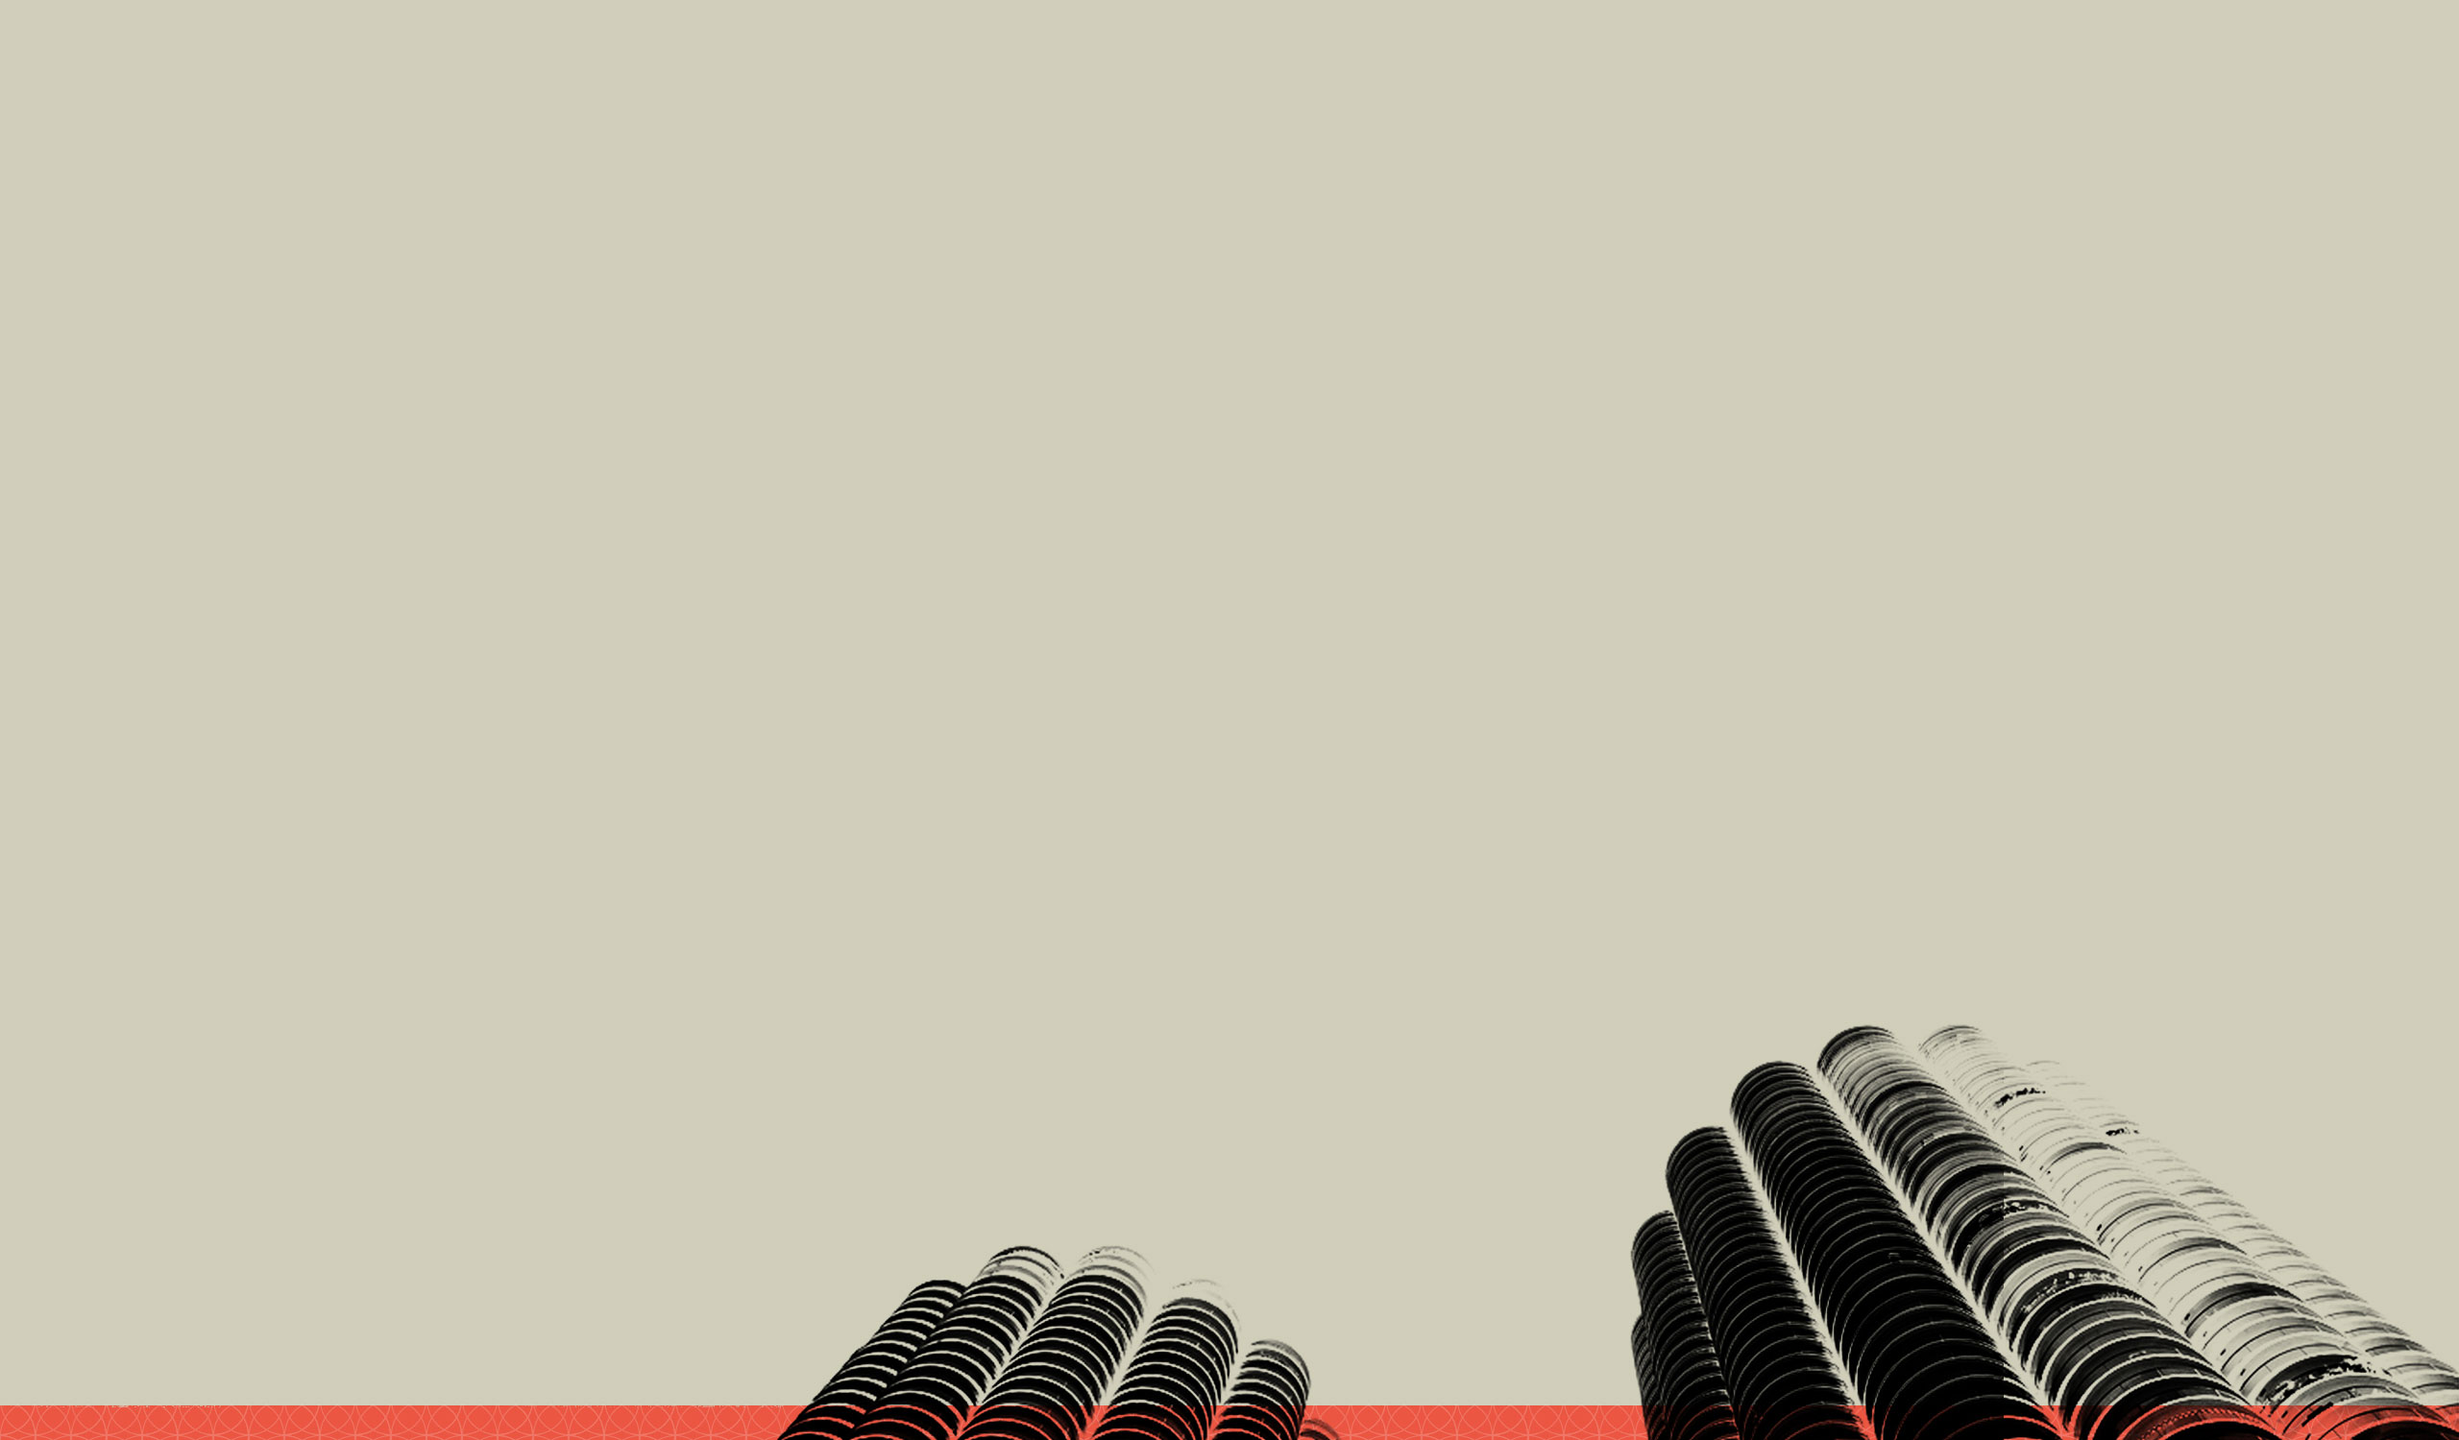
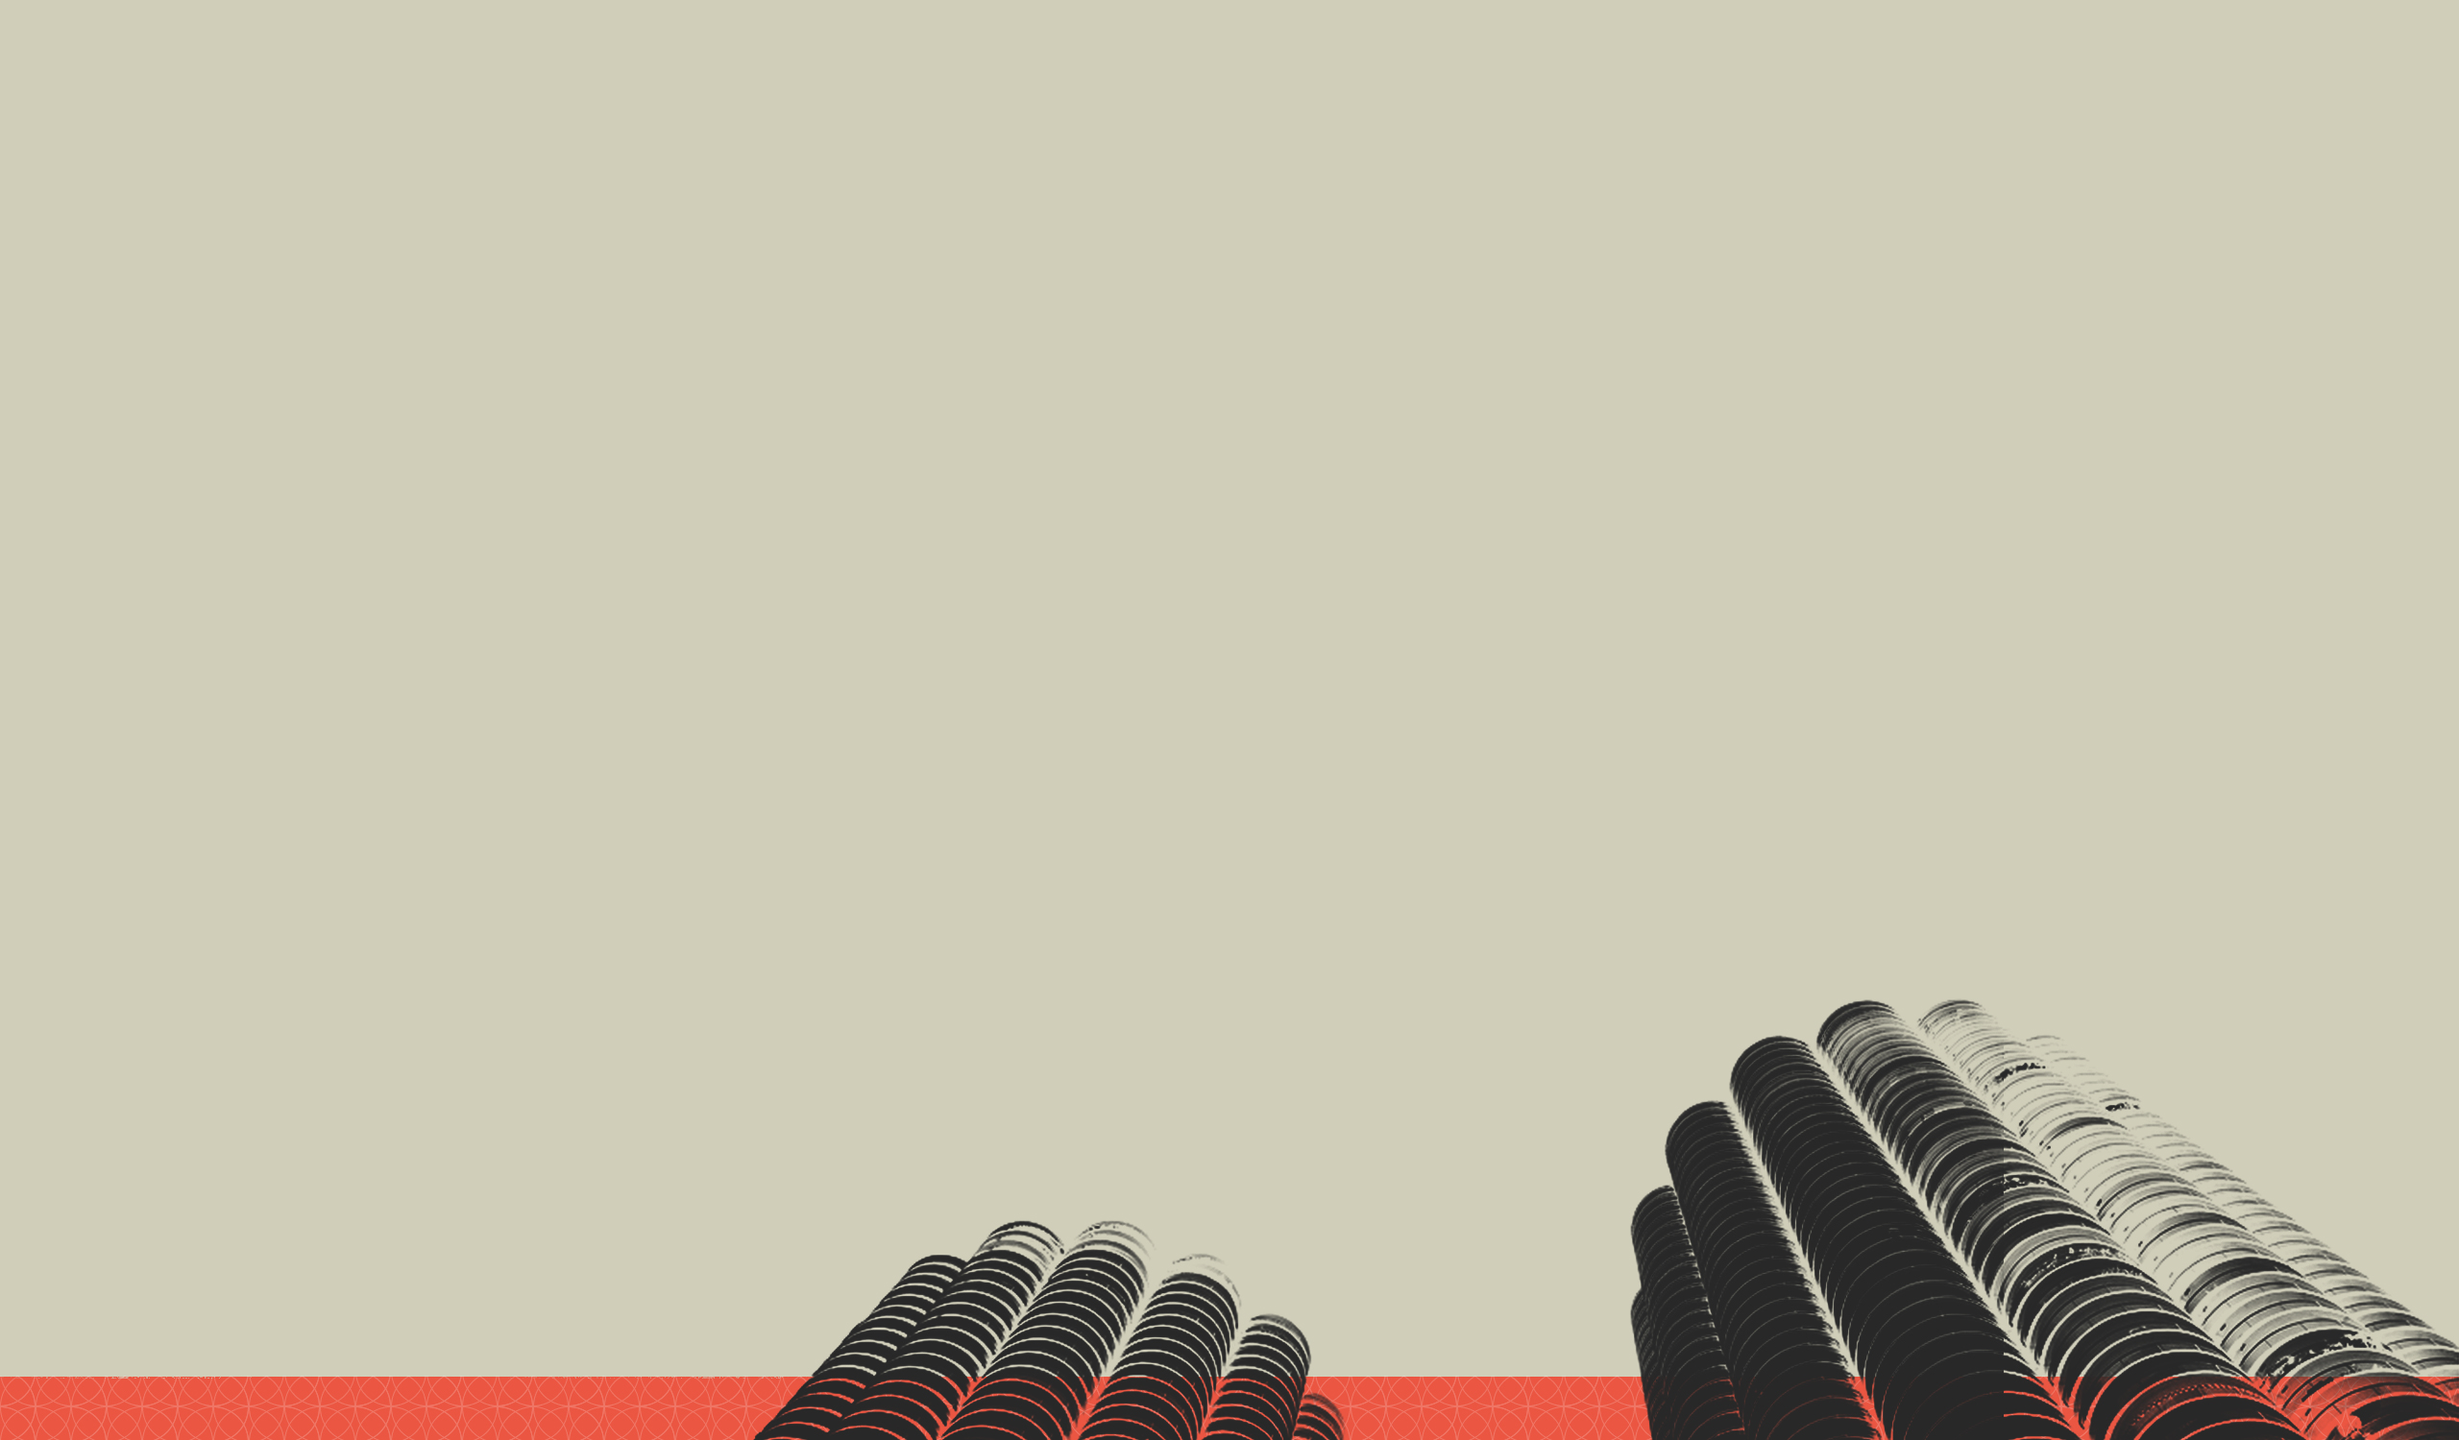
Sunday Updates, Minor Color Changes

Changed region(s): [[0.0, 0.6747, 1.0, 1.0]]

diff --git a/content/global.css b/content/global.css
@@ -178,7 +178,7 @@ a {
   user-select: none;
 }
 body {
-  background: #170906;
+  background: #282828;
 }
 body.menu-padding {
   padding-top: 100px;
@@ -328,7 +328,6 @@ header {
   display: block;
   transition: all .2s ease;
   width: 100%;
-  border-bottom: 1px solid rgba(255, 255, 255, 0.2);
   position: fixed;
   z-index: 9999;
 }
@@ -337,9 +336,6 @@ header #branding {
   position: relative;
   color: black;
   transition: all .2s ease;
-  width: 200px;
-  height: 40px;
-  background: url(../content/images/logo-white.svg);
   background-size: 200px 40px;
   margin-left: 50px;
   text-indent: -9999px;
@@ -347,6 +343,21 @@ header #branding {
 header #branding a {
   display: block;
   height: 100%;
+  height: 40px;
+  width: 200px;
+  background: url('../content/images/logo-white.svg');
+  background-size: 200px 40px;
+  transition: all .2s ease;
+}
+header #branding object {
+  height: 40px;
+  width: 200px;
+  color: #d0ceb9;
+  display: block;
+  transition: all .2s ease;
+}
+header #branding object path {
+  fill: white;
 }
 header #topnav ul {
   float: right;
@@ -370,6 +381,7 @@ header #topnav ul li a {
   color: white;
   font-weight: 400;
   font-size: 18px;
+  transition: all .2s ease;
 }
 header #topnav ul li a:hover {
   border-bottom: 1px solid white;
@@ -378,13 +390,12 @@ header #topnav ul li a:hover {
   position: fixed;
   top: 0;
   padding: 20px 0px;
-  background: rgba(23, 9, 6, 0.8);
+  background: rgba(40, 40, 40, 0.9);
 }
-.scroll #branding {
+.scroll #branding a {
   color: #d0ceb9;
   width: 100px;
   height: 20px;
-  background: url(../content/images/logo-white.svg);
   background-size: 100px 20px;
 }
 .scroll ul {
@@ -392,10 +403,11 @@ header #topnav ul li a:hover {
 }
 .scroll ul li a {
   font-size: 16px !important;
-  color: #d0ceb9 !important;
+  color: white !important;
 }
 .scroll ul li a:hover {
   color: #eb5642 !important;
+  border-bottom: none !important;
 }
 .page-wrapper {
   position: absolute;
@@ -422,9 +434,9 @@ header #topnav ul li a:hover {
   padding: 0px 0px 100px;
 }
 #hero .headline h1 {
-  color: #170906;
+  color: #282828;
   font-family: "abril-display-1", "abril-display-2";
-  font-size: 83px;
+  font-size: 94px;
   font-weight: 800;
   margin-bottom: 20px;
   font-style: italic;
@@ -435,11 +447,13 @@ header #topnav ul li a:hover {
 }
 #hero .headline h2 {
   width: 50%;
+  color: #282828;
   margin: 10px 0 0 150px;
   text-transform: uppercase;
   font-style: italic;
   font-size: 12px;
   line-height: 23px;
+  letter-spacing: 1px;
 }
 #worklist {
   margin-bottom: 40px;
@@ -472,7 +486,7 @@ header #topnav ul li a:hover {
   content: '';
   width: 200px;
   height: 1px;
-  border-bottom: 1px solid #373630;
+  border-bottom: 1px solid #464646;
   display: block;
   margin: 10px auto -5px;
 }
@@ -542,7 +556,7 @@ header #topnav ul li a:hover {
   padding-top: 60px;
 }
 #worklist ul.portfolio li .project-data {
-  border-bottom: 1px solid #373630;
+  border-bottom: 1px solid #464646;
   transition: all .2s ease;
 }
 #worklist ul.portfolio li .project-data h3 {
@@ -570,7 +584,7 @@ header #topnav ul li a:hover {
 -------------------------------------------------- */
 footer {
   width: 100%;
-  border-top: 1px solid #373630;
+  border-top: 1px solid #464646;
   height: 100px;
   clear: both;
   margin-top: 40px;
@@ -582,7 +596,7 @@ footer .contact {
   color: #d0ceb9;
   font-size: 28px;
   margin: 30px 0 60px;
-  border-bottom: 1px solid #373630;
+  border-bottom: 1px solid #464646;
   padding-bottom: 30px;
   font-family: "abril-display-1", "abril-display-2";
 }
@@ -672,15 +686,15 @@ footer .mini-colophon {
   display: block;
   margin: 10px auto 50px;
   width: 62%;
-  border: 1px solid #373630;
+  border: 1px solid #464646;
   font-family: "proxima-nova-1", "proxima-nova-2";
-  color: #373630;
+  color: #464646;
 }
 footer .mini-colophon span {
   padding: 15px 15px 13px;
   display: inline-block;
   text-align: center;
-  border-right: 1px solid #373630;
+  border-right: 1px solid #464646;
   margin-top: -2px;
 }
 footer .mini-colophon .flag {
@@ -740,7 +754,6 @@ footer .mini-colophon .flag {
   color: #d0ceb9;
 }
 #about p a {
-  border-bottom: 1px solid #eb5642;
   color: #eb5642;
 }
 #about h3 {
@@ -767,6 +780,7 @@ footer .mini-colophon .flag {
 }
 #about .fifty p {
   margin: 0 0 12px;
+  font-family: "abril-display-1", "abril-display-2";
 }
 #about .fifty h2 {
   color: #d0ceb9;
@@ -780,7 +794,7 @@ footer .mini-colophon .flag {
 #about .fifty img {
   width: 98%;
   margin-bottom: 20px;
-  border: 8px solid #373630;
+  border: 8px solid #464646;
 }
 #about .twentyfive {
   font-size: 12px;
@@ -850,9 +864,10 @@ footer .mini-colophon .flag {
 #about .twentyfive p {
   clear: both;
   font-size: 12px;
-  line-height: 18px;
+  line-height: 19px;
   padding-top: 5px;
   display: block;
+  font-family: "abril-display-1", "abril-display-2";
 }
 #about .twentyfive .personallist li.education {
   font-size: 12px;
@@ -873,7 +888,6 @@ footer .mini-colophon .flag {
   text-transform: uppercase;
 }
 #about .twentyfive .personallist li a {
-  border-bottom: 1px solid #eb5642;
   color: #eb5642;
 }
 #about .twentyfive .personallist li.social i {
@@ -892,9 +906,8 @@ footer .mini-colophon .flag {
 -------------------------------------------------- */
 #contact-header {
   text-align: center;
-  padding-top: 71px;
+  padding-top: 275px;
   background: url('images/contact_bg.jpg');
-  background-position: 0px -433px;
   background-size: cover;
   padding-bottom: 50px;
   background-position: center bottom;
@@ -1006,7 +1019,7 @@ footer .mini-colophon .flag {
 }
 #contact .form input {
   background: none;
-  border: 3px double #373630;
+  border: 3px double #464646;
   padding: 20px;
   width: 60%;
   color: white;
@@ -1018,7 +1031,7 @@ footer .mini-colophon .flag {
 }
 #contact .form textarea {
   background: none;
-  border: 3px double #373630;
+  border: 3px double #464646;
   padding: 20px;
   width: 60%;
   color: white;
@@ -1059,7 +1072,7 @@ footer .mini-colophon .flag {
   font-style: italic;
   letter-spacing: -1px;
   line-height: 80px;
-  border-bottom: 3px double #373630;
+  border-bottom: 3px double #464646;
 }
 #project-header p {
   color: #d0ceb9;
@@ -1084,7 +1097,7 @@ footer .mini-colophon .flag {
 #project-header .meta {
   width: 250px;
   float: right;
-  border: 1px solid #373630;
+  border: 1px solid #464646;
   margin-right: 0px;
   margin-bottom: 40px;
   margin-top: -102px;
@@ -1099,14 +1112,14 @@ img#project-header .meta {
   text-transform: uppercase;
   font-size: 16px;
   padding: 20px;
-  border-bottom: 3px double #373630;
+  border-bottom: 3px double #464646;
 }
 #project-header .meta .group {
   color: #d0ceb9;
   font-family: "abril-display-1", "abril-display-2";
   font-style: italic;
   padding: 10px 20px 10px;
-  border-bottom: 1px solid #373630;
+  border-bottom: 1px solid #464646;
 }
 #project-header .meta .group .label {
   color: #eb5642;

diff --git a/content/global.less b/content/global.less
@@ -29,14 +29,14 @@ p {font-size: 14px; line-height: 22px; }
 /*  --------------------------------------------------
 :: Base	
 -------------------------------------------------- */
-@black: #170906;
+@black: #282828;
 @white: #d0ceb9;
 @yellow: #ffd133;
 @red: #eb5642;
 @blue: #63adde;
 @orange: #fe9400;
-@lighter: #373630;
-@background: #170906;
+@lighter: #464646;
+@background: #282828;
 @accent: #fce016;
 
 .clearfix{ 
@@ -114,27 +114,32 @@ p {font-size: 14px; line-height: 22px; }
 :: Header
 -------------------------------------------------- */
 
-header {padding:40px 0px; display: block; transition:all .2s ease; width:100%; border-bottom: 1px solid rgba(255,255,255,.2); position:fixed; z-index: 9999;
-		#branding {.left; position: relative; color:black; transition:all .2s ease; width:200px; height:40px; background: url(../content/images/logo-white.svg); background-size: 200px 40px;  margin-left:50px; text-indent: -9999px;
-			a {display: block; height:100%;}
+header {padding:40px 0px; display: block; transition:all .2s ease; width:100%; position:fixed; z-index: 9999;
+		#branding {.left; position: relative; color:black; transition:all .2s ease;  background-size: 200px 40px;  margin-left:50px; text-indent: -9999px;
+			a {display: block; height:100%; height:40px; width:200px; background:url('../content/images/logo-white.svg'); background-size: 200px 40px; transition:all .2s ease;}
+			object {height:40px; width:200px; color:@white; display:block; transition:all .2s ease;
+				path {fill:white;}
+			}
 		}
 		#topnav { 
 			ul {.right; padding-top:10px; margin-right:50px; .din;
 				li { display: inline; margin:0 10px;
 					&:last-child {margin-right:0px;}
-					a {color:white; .regular; font-size: 18px; 
+					a {color:white; .regular; font-size: 18px;  transition:all .2s ease;
 						&:hover {border-bottom:1px solid white;}
 					}
 				}
 			}
 		}
 	}
-	&.scroll {position: fixed; top:0; padding: 20px 0px; background: rgba(23,9,6,.8);
-		#branding {color: @white; width:100px; height:20px; background: url(../content/images/logo-white.svg); background-size: 100px 20px;}
+	&.scroll {position: fixed; top:0; padding: 20px 0px; background:rgba(40,40,40,.9);
+		#branding {
+			a {color: @white; width:100px; height:20px; background-size: 100px 20px;}
+		}
 		ul { padding-top:0px !important;
 			li {
-				a {font-size: 16px !important; color:@white !important;
-					&:hover {color:@red !important}
+				a {font-size: 16px !important; color:white !important;
+					&:hover {color:@red !important; border-bottom:none !important;}
 				}
 				
 			}
@@ -150,8 +155,8 @@ header {padding:40px 0px; display: block; transition:all .2s ease; width:100%; b
 
 #hero { .textcenter;  border-bottom:rgba(255,255,255,.2); background:url(../content/images/hero_bg.jpg); background-size: cover; padding:165px 0 75px; background-position: center bottom;
 	.headline { padding:0px 0px 100px;
-		h1 {color:@black; .abril; font-size:83px; font-weight:800; margin-bottom:20px; font-style: italic; text-transform: lowercase; letter-spacing: -1px; line-height:83px; text-align: left;}
-		h2 {width:50%; margin:10px 0 0 150px; text-transform:uppercase; font-style:italic; font-size: 12px; line-height: 23px;}
+		h1 {color:@black; .abril; font-size:94px; font-weight:800; margin-bottom:20px; font-style: italic; text-transform: lowercase; letter-spacing: -1px; line-height:83px; text-align: left;}
+		h2 {width:50%; color:@black; margin:10px 0 0 150px; text-transform:uppercase; font-style:italic; font-size: 12px; line-height: 23px; letter-spacing: 1px;}
 	}
 }
 #worklist { margin-bottom: 40px;
@@ -254,14 +259,14 @@ footer {width:100%; border-top:1px solid @lighter; height:100px; clear:both; mar
 		&:hover {color:#00aced !important; border-bottom: 1px solid #00aced !important;}
 	}
 	p {color:@white;
-		a {border-bottom: 1px solid @red; color: @red;
+		a { color: @red;
 		}
 	}
 	h3 {color:@white; .din; font-size:15px; color:@white; font-weight:800; margin-bottom:10px; margin-top: 40px; text-transform: uppercase;
 		&:after{content:''; width:100px; height:1px; border-bottom: 1px solid #333; display: block; margin: 10px 0 10px 0px;}
 	}
 	.fifty {margin-right:4%; width:45%;
-		p {margin: 0 0 12px;}
+		p {margin: 0 0 12px; .abril;}
 		h2 {color:@white; .din; font-size:24px; margin-bottom:20px; line-height: 27px;}
 		img {width:98%; margin-bottom: 20px; border: 8px solid @lighter;}
 	}
@@ -278,14 +283,14 @@ footer {width:100%; border-top:1px solid @lighter; height:100px; clear:both; mar
 			&.local {color:#666; font-family: "proxima-nova-1", "proxima-nova-2"; float: left;}
 			&.date {color:#666; font-family: "proxima-nova-1", "proxima-nova-2"; float: left; margin-left: 20px;}
 		}
-		p {clear:both; font-size: 12px; line-height: 18px; padding-top: 5px; display: block;}
+		p {clear:both; font-size: 12px; line-height: 19px; padding-top: 5px; display: block; .abril;}
 		.personallist {
 			li {
 				&.education { font-size: 12px; line-height: 16px;
 					.name {font-family: "proxima-nova-1", "proxima-nova-2"; font-weight: 700;}
 				}
 				.label {color:@red; .din; font-size:13px; font-weight:800; margin-bottom:7px; margin-top: 15px; text-transform: uppercase; }
-				a {border-bottom: 1px solid @red; color: @red;}
+				a { color: @red;}
 				&.social {
 					i {font-size:14px; transition:all .2s ease;
 						&:hover {color:@orange !important;}
@@ -302,7 +307,7 @@ footer {width:100%; border-top:1px solid @lighter; height:100px; clear:both; mar
 :: Contact
 -------------------------------------------------- */
 
-#contact-header {text-align: center; padding-top:71px; background: url('images/contact_bg.jpg');background-position: 0px -433px; background-size:cover; padding-bottom: 50px; background-position: center bottom;
+#contact-header {text-align: center; padding-top:275px; background: url('images/contact_bg.jpg'); background-size:cover; padding-bottom: 50px; background-position: center bottom;
 		h1 {color:@white; .abril; font-size:44px; font-weight:800; margin-bottom:20px; font-style: italic; text-transform: lowercase; letter-spacing: -1px;
 		}
 		.social { margin-top:40px;

diff --git a/footer.php b/footer.php
@@ -41,5 +41,4 @@
 
   ga('create', 'UA-29127337-1', 'brandonmorreale.com');
   ga('send', 'pageview');
-
 </script>
